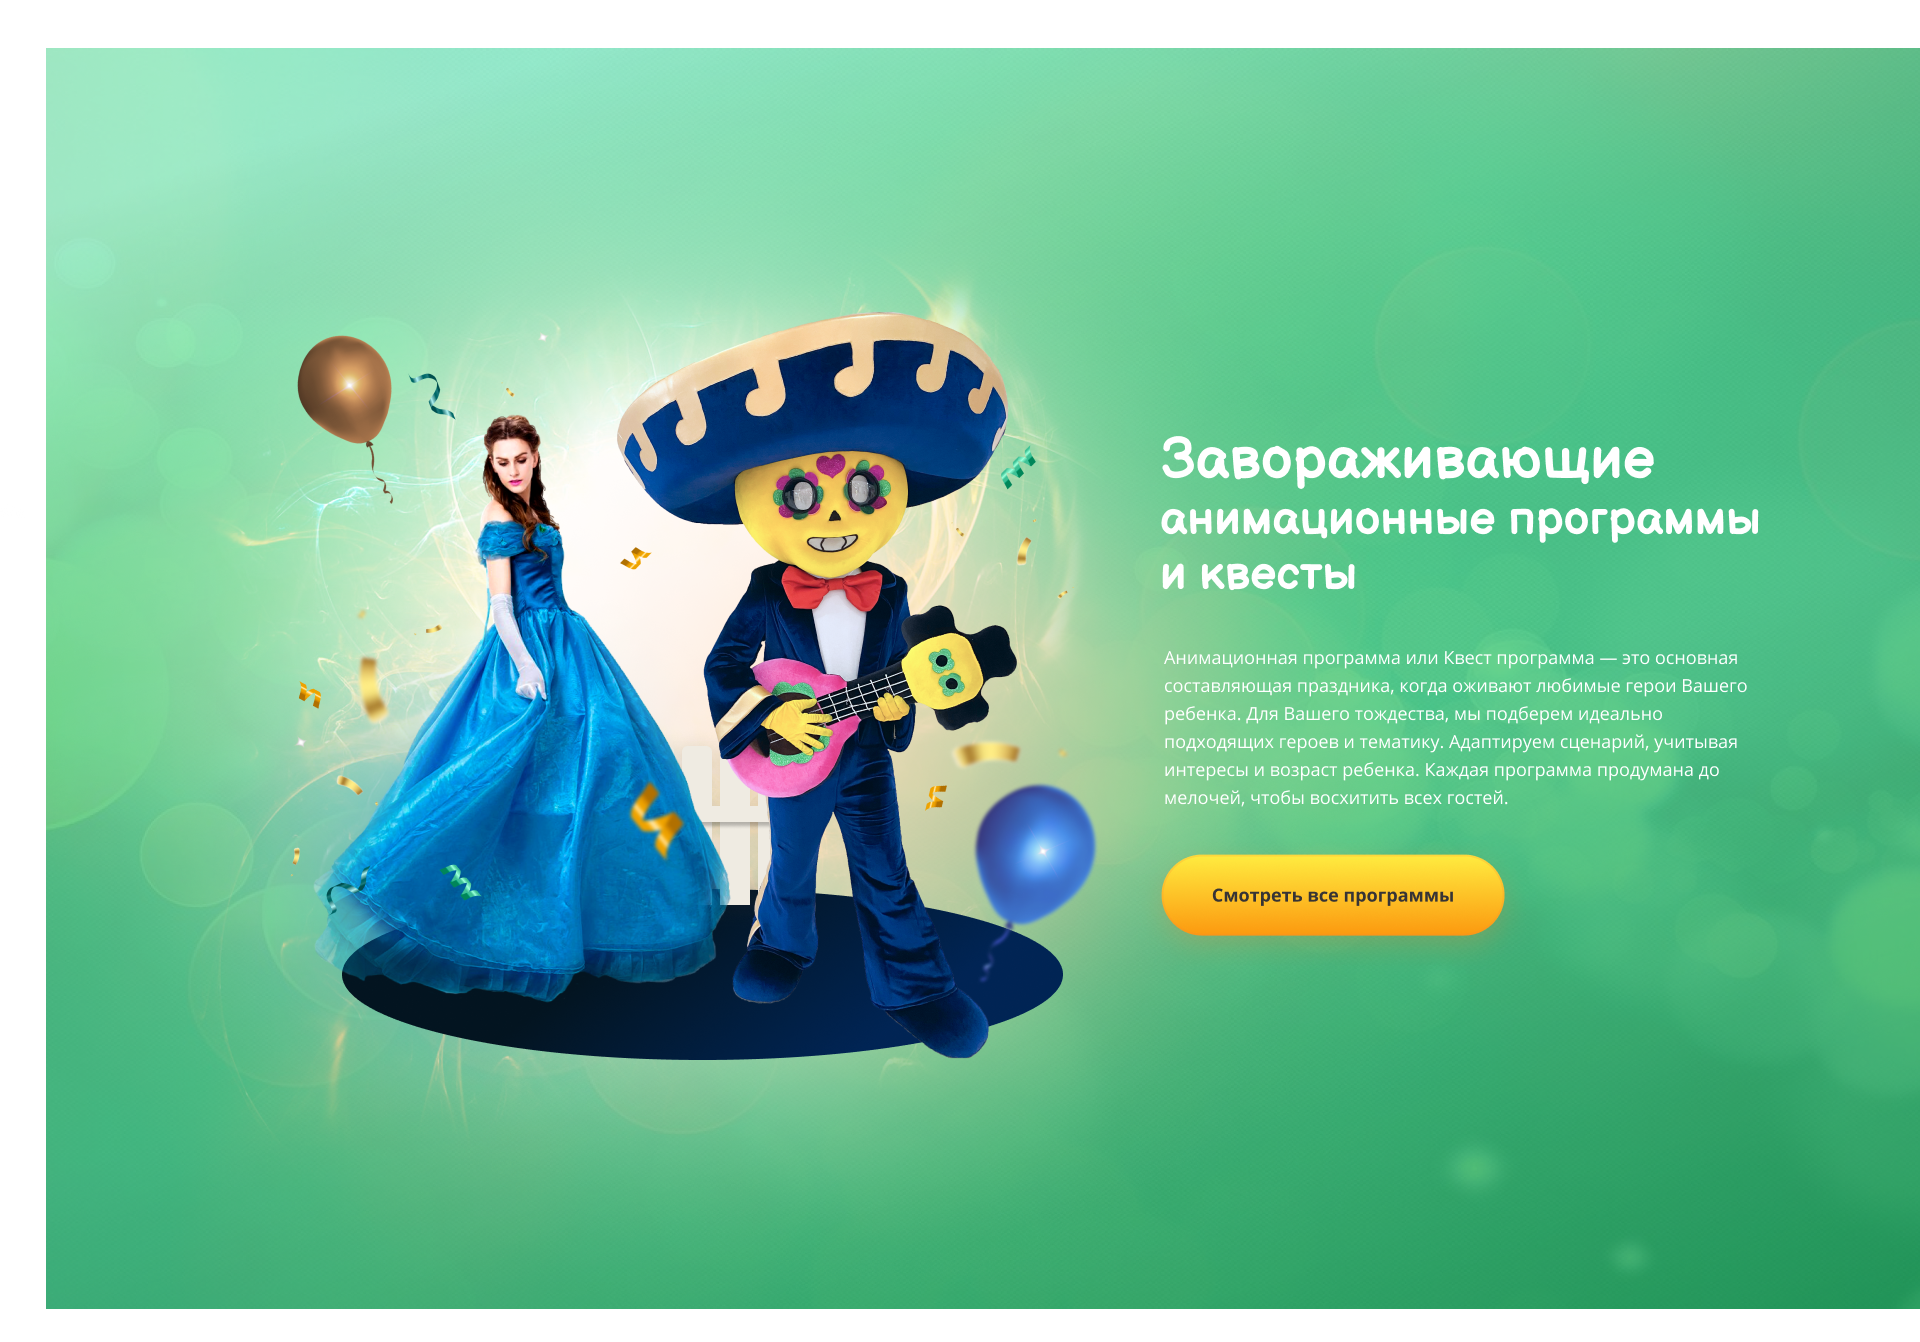
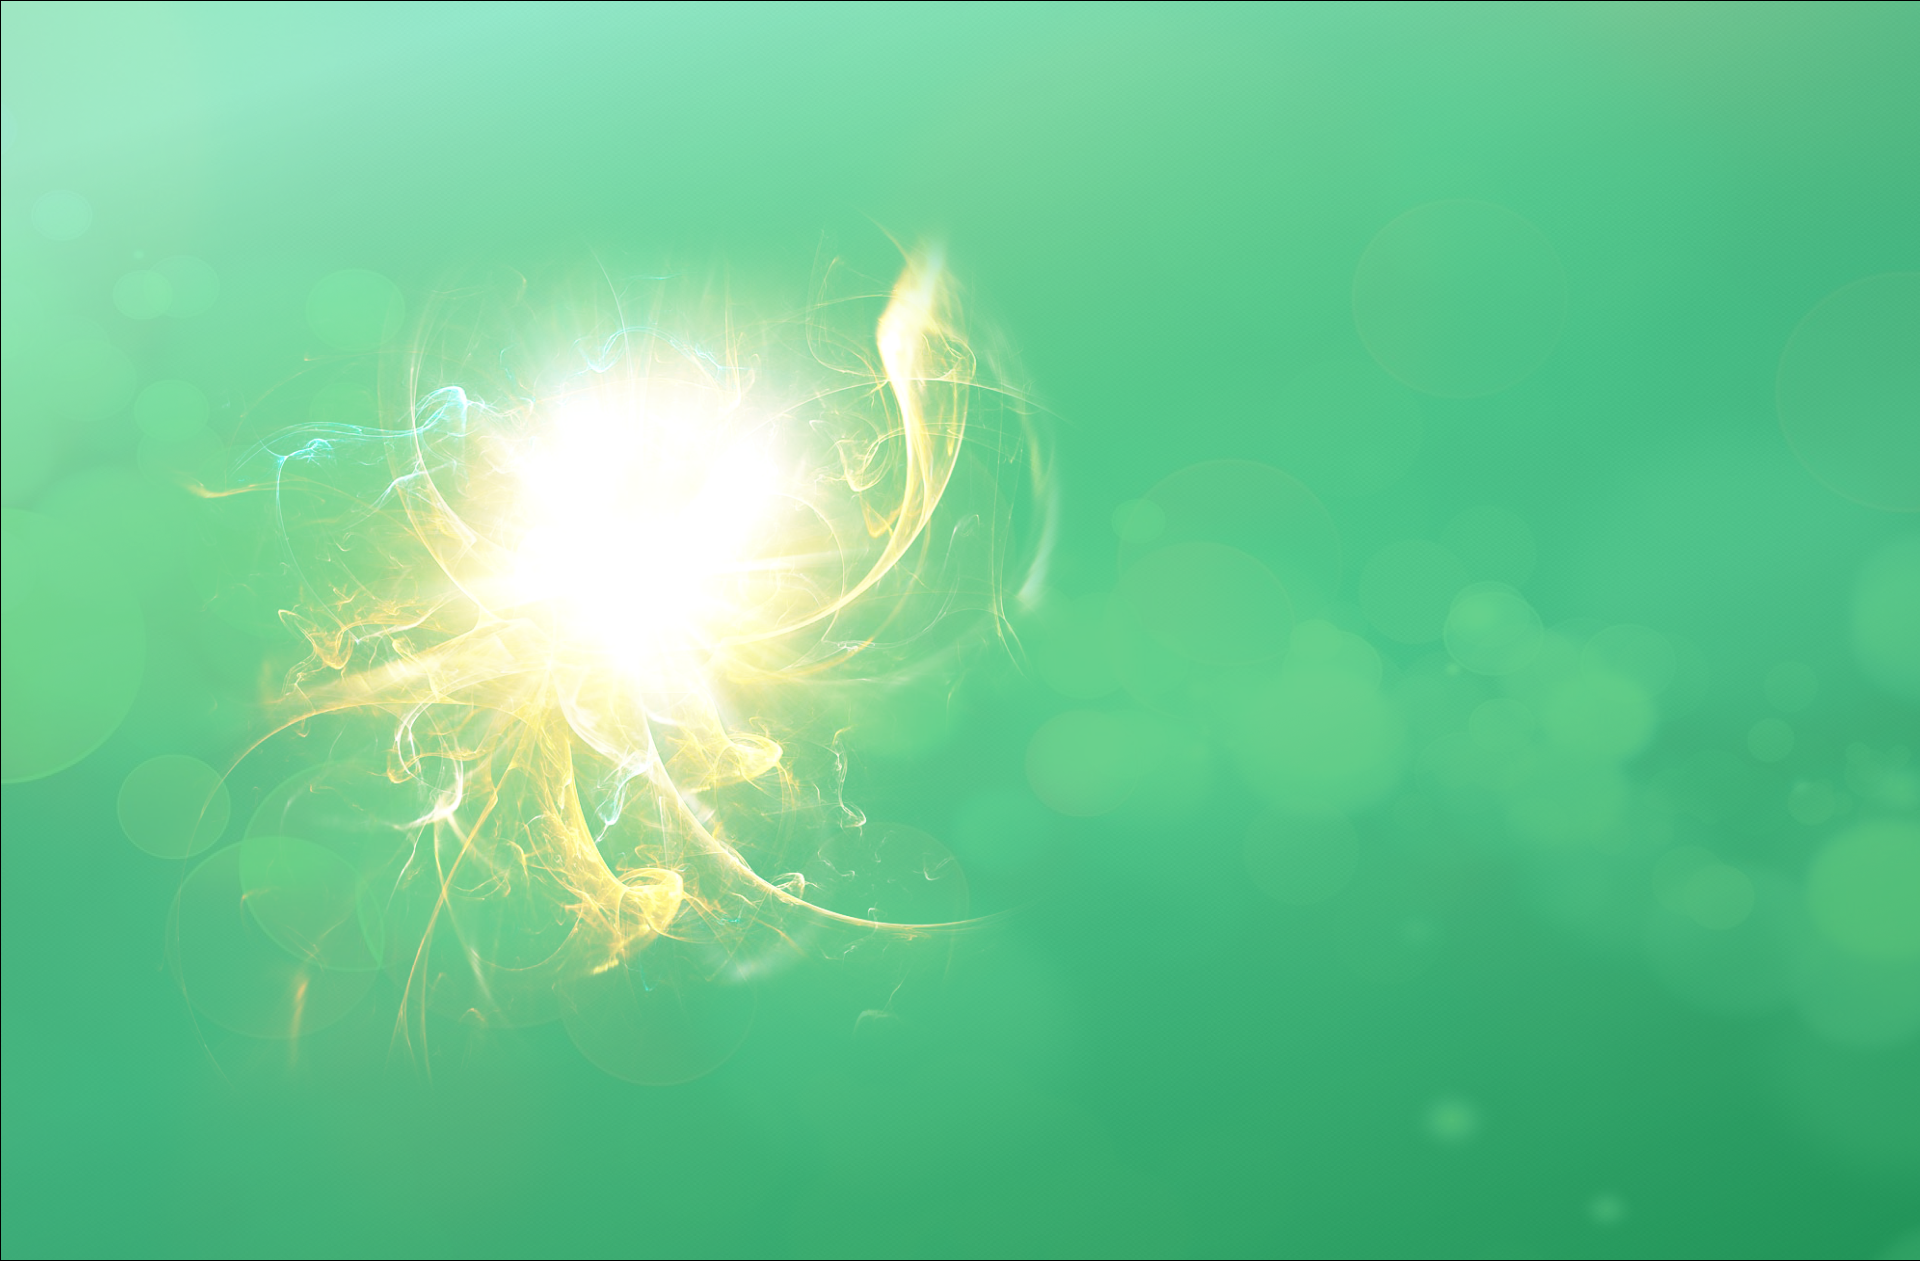
all template

diff --git a/main4kContent.css b/main4kContent.css
@@ -55,6 +55,8 @@
 #formOfMagic{
     height: 1126px;
     background: url("images/Rectangle 42.png");
+    background-size: cover;
+    background-position: 0px -400px;
 }
 .btn {
     align-self:center;
@@ -175,8 +177,9 @@ input{
 }
 /*---------------------------------------------------------*/
 #happyBirthday{
-    height: 1275px;
-    background: linear-gradient(332.27deg, #179F3E -4.03%, rgba(24, 149, 59, 0) 41.12%), linear-gradient(154.93deg, #8BF2C1 8.8%, rgba(93, 206, 102, 0) 45.34%, rgba(179, 248, 220, 0) 45.34%), linear-gradient(0deg, #44C571, #44C571), #E9417D;
+    height: 1119px;
+    background: url("images/Frame 50.png");
+    background-size: cover;
 }
 .sectionContainer{
     background-repeat: no-repeat;
@@ -200,8 +203,10 @@ input{
 /*---------------------------------------------------------*/
 #masterClasses{
     height: 1075px;
-    background: linear-gradient(345.24deg, #187FE1 -3%, rgba(12, 109, 201, 0) 64.24%), linear-gradient(117.91deg, rgba(186, 220, 253, 0.32) 12.71%, rgba(207, 234, 255, 0) 43.93%), linear-gradient(0deg, #4B9FEF, #4B9FEF), linear-gradient(164.39deg, #FFC647 9.83%, #F05D5E 137.48%);
-    background-blend-mode: screen, screen, soft-light, normal, screen, normal, normal;
+    /*background: url("images/Frame 53.png"), linear-gradient(345.24deg, #187FE1 -3%, rgba(12, 109, 201, 0) 64.24%), linear-gradient(117.91deg, rgba(186, 220, 253, 0.32) 12.71%, rgba(207, 234, 255, 0) 43.93%), linear-gradient(0deg, #4B9FEF, #4B9FEF), linear-gradient(164.39deg, #FFC647 9.83%, #F05D5E 137.48%);*/
+    /*background-blend-mode: screen, screen, soft-light, normal, screen, normal, normal;*/
+    background: url("images/Frame 53.png");
+    background-size: cover;
 }
 /*---------------------------------------------------------*/
 #calendarCelebrate{
@@ -211,8 +216,8 @@ input{
 /*---------------------------------------------------------*/
 #inviteToCelebrate{
     height: 1075px;
-    background: linear-gradient(328.36deg, rgba(179, 118, 63, 0.72) 12.06%, rgba(237, 184, 140, 0) 67.63%), linear-gradient(193.77deg, rgba(255, 232, 180, 0.72) 9.84%, rgba(255, 232, 180, 0) 46.57%), linear-gradient(0deg, #E9AB7F, #E9AB7F), linear-gradient(164.39deg, #FFC647 9.83%, #F05D5E 137.48%);
-    background-blend-mode: screen, screen, color-dodge, normal, normal, normal, normal, normal;;
+    background: url("images/Frame 55.png");
+    background-size: cover;
 }
 
 .cursiveText{
@@ -229,4 +234,6 @@ input{
 /*---------------------------------------------------------*/
 #externalSupport{
     height: 1075px;
+    background: url("images/Frame 57.png");
+    background-size: cover;
 }

diff --git a/in.html b/in.html
@@ -81,7 +81,7 @@
 
         </div>
         <div class="mainBtnCont">
-            <a href="#" class="btn" id="mainBtn">Бесплатный подбор</a>
+            <a href="#" id="mainBtn">Бесплатный подбор</a>
         </div>
         <div id="heroesContainer">
             <div class="heroes">
